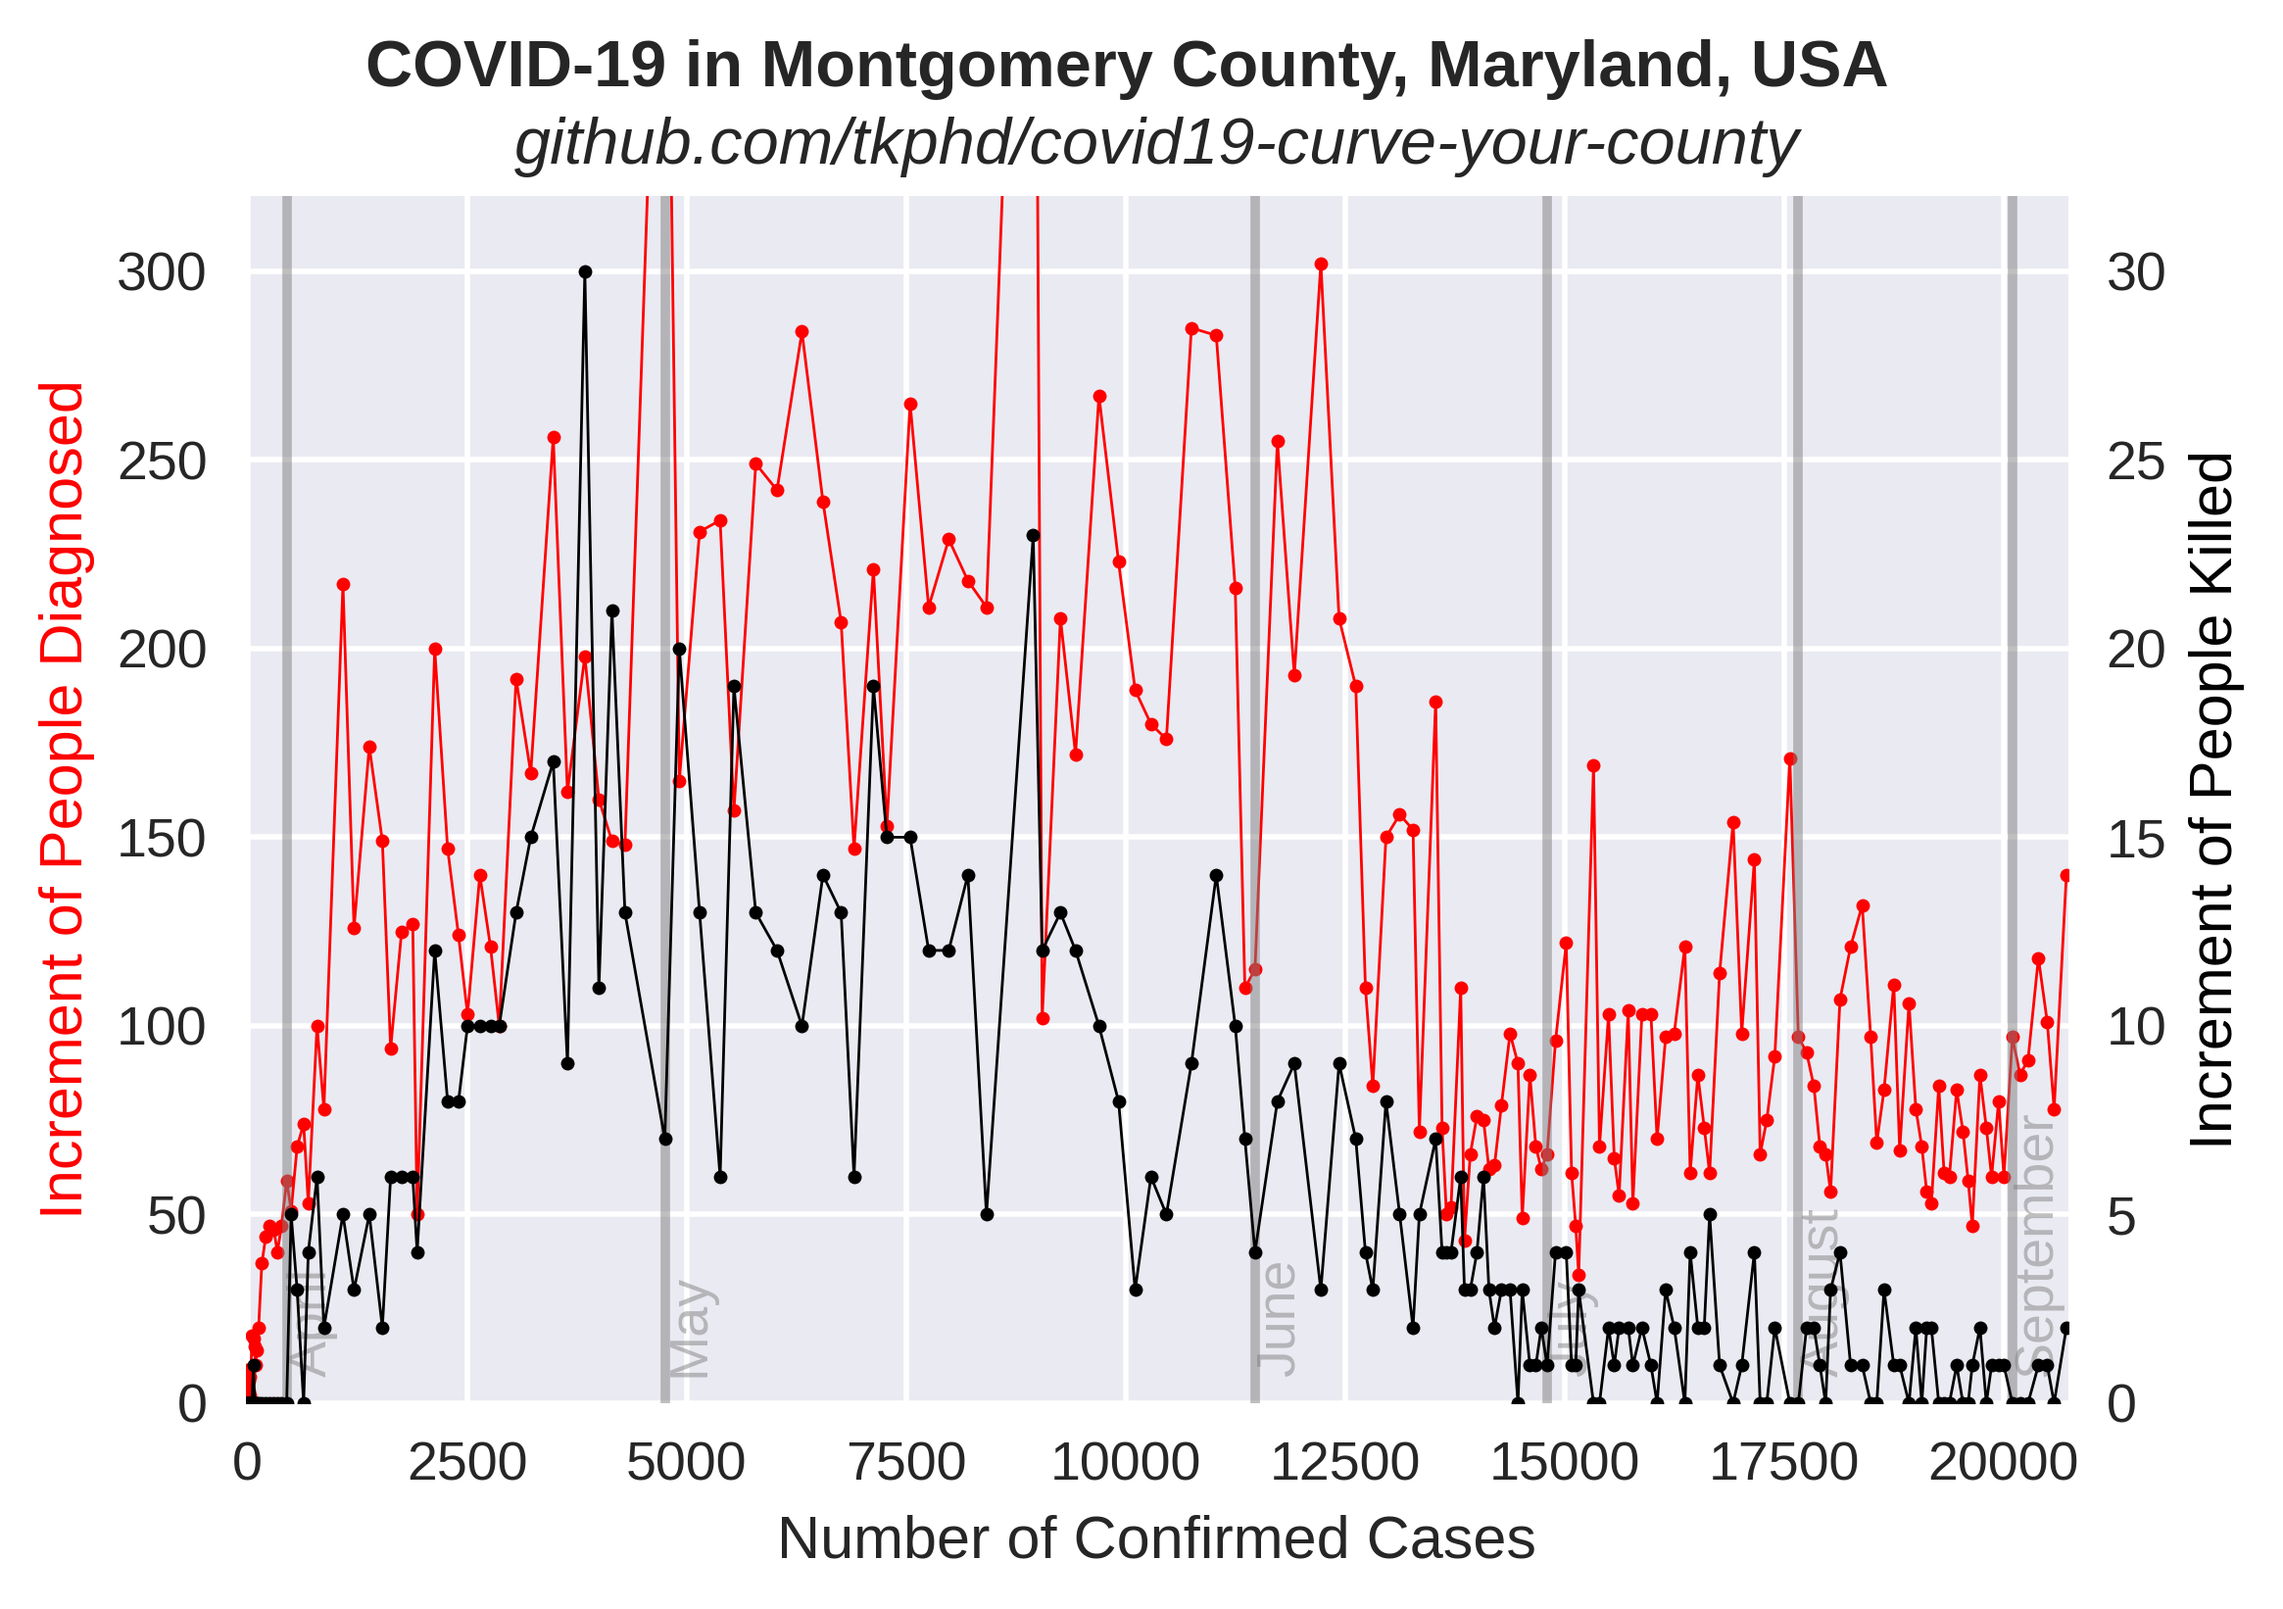
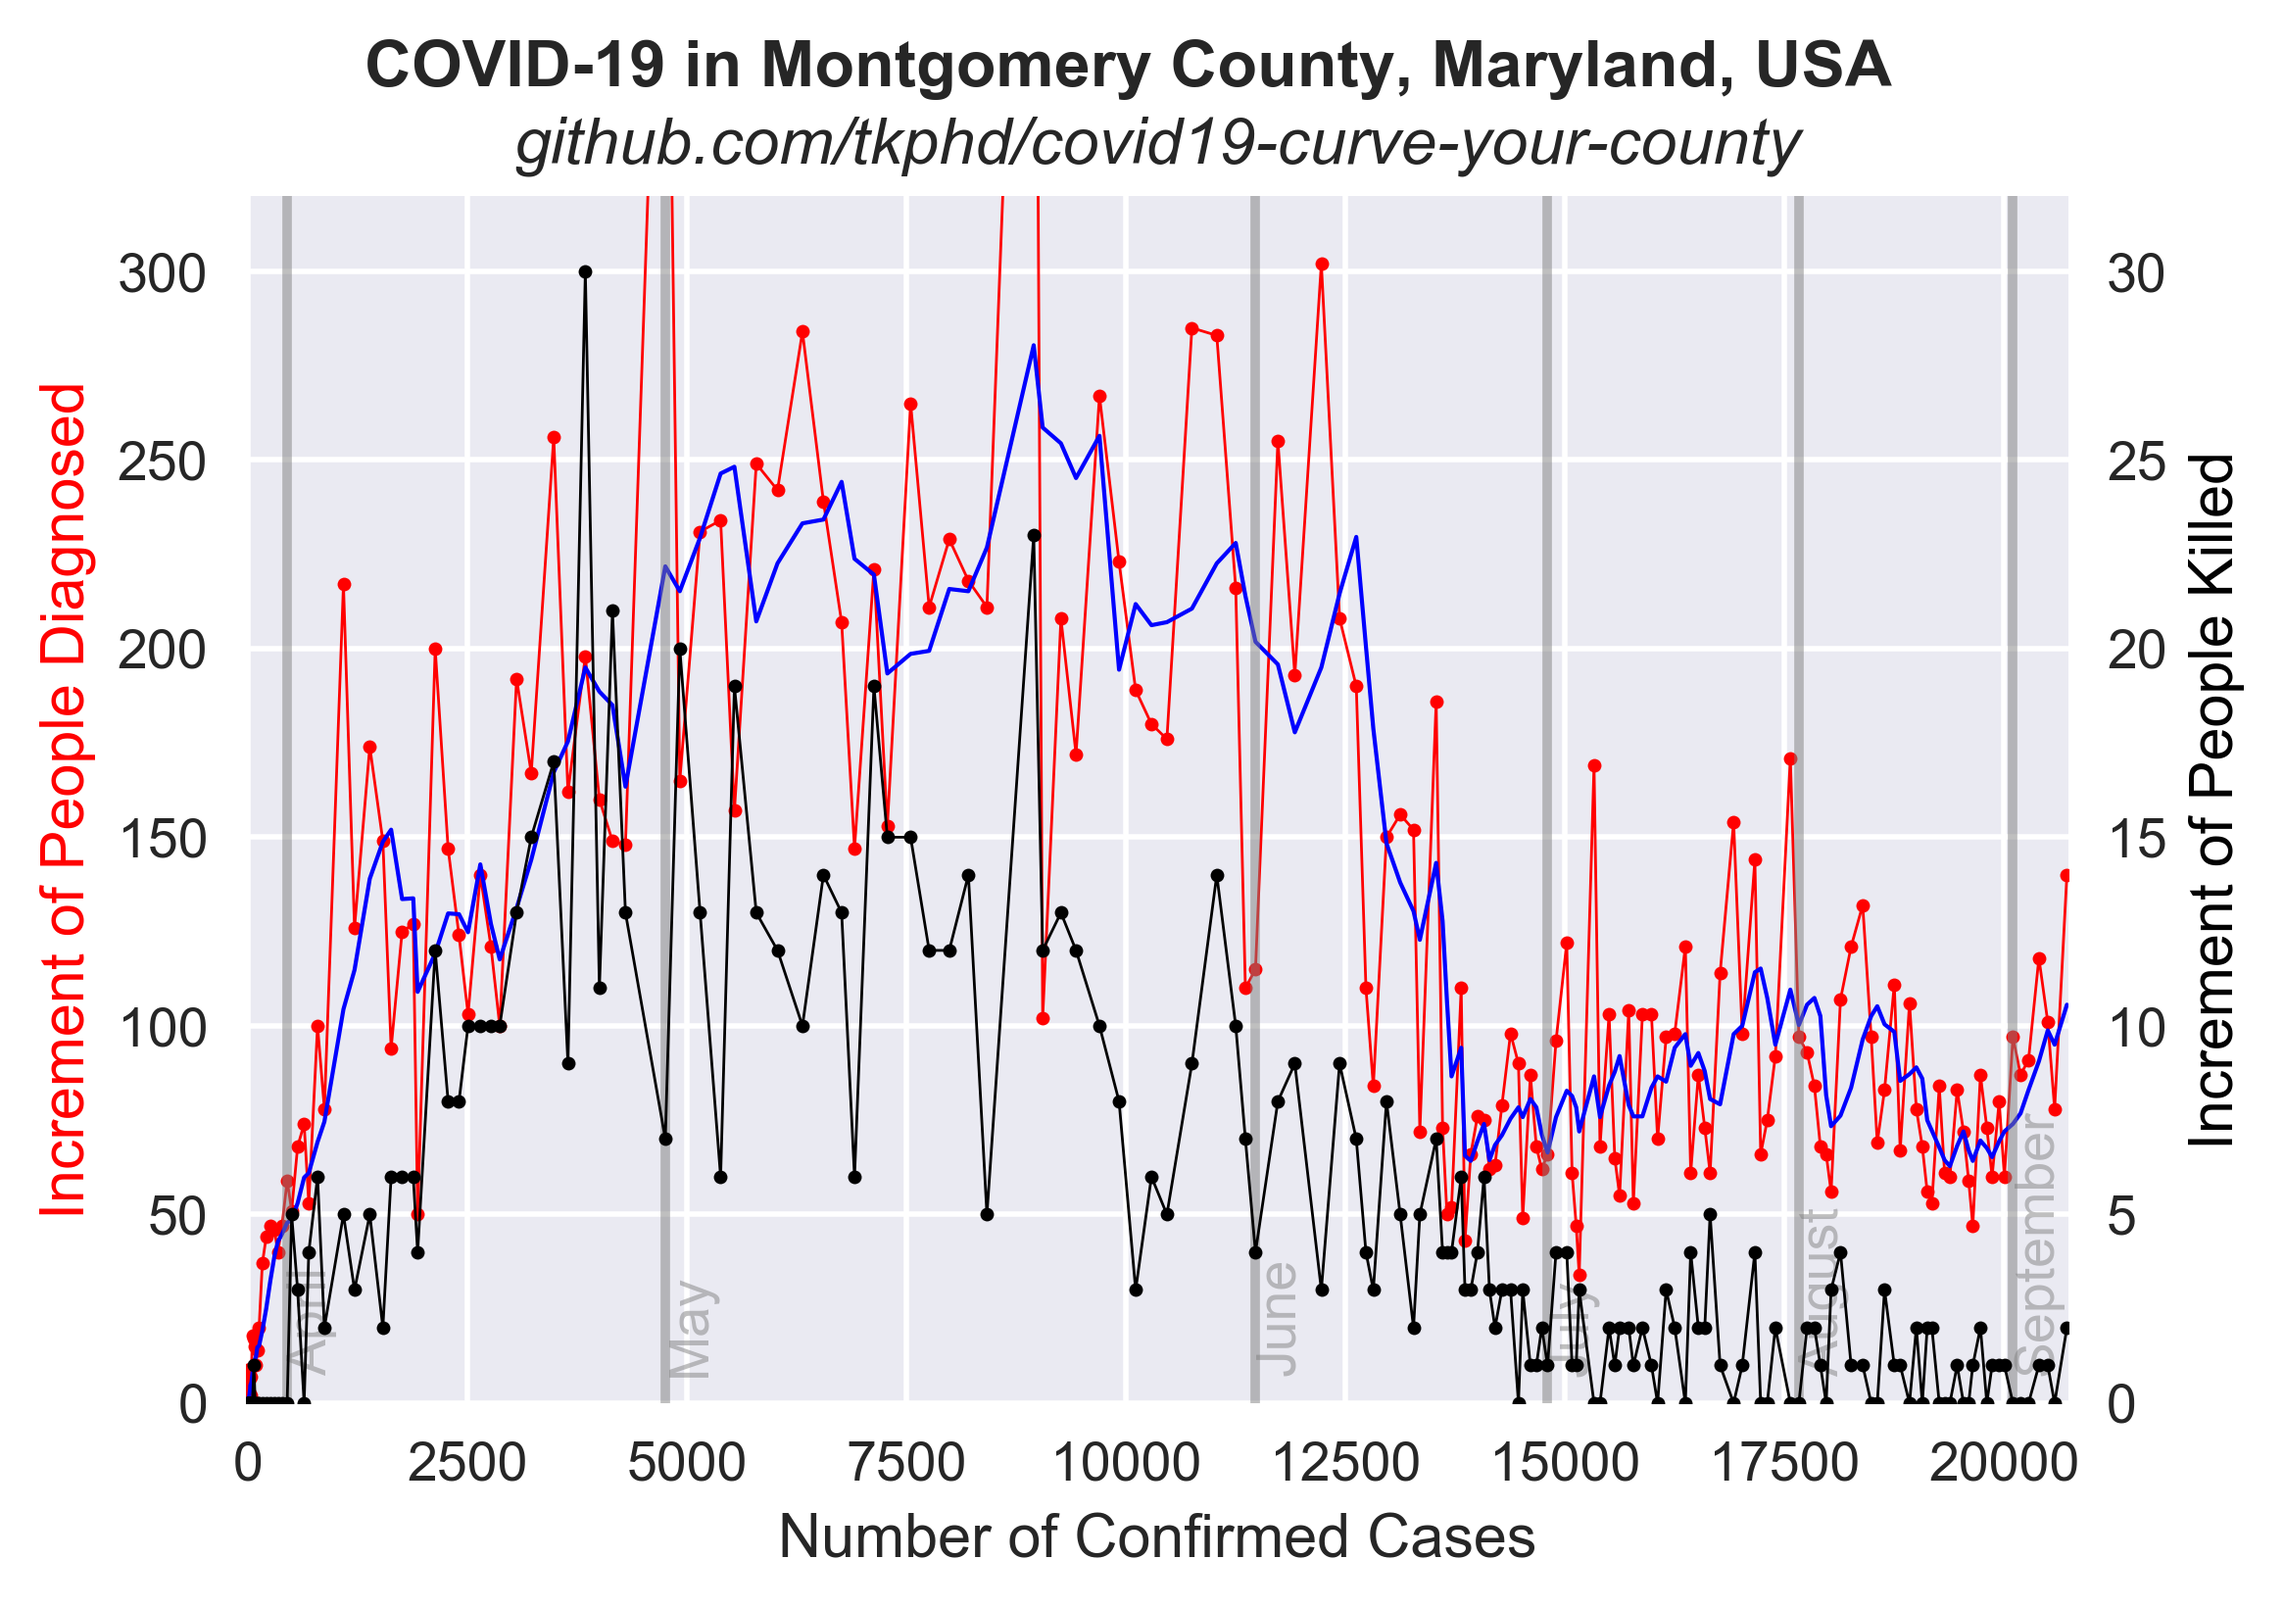
plot 5-day moving average

diff --git a/exponential.py b/exponential.py
@@ -285,6 +285,12 @@ ax1.set_ylim([0,320])
 ax1.set_ylabel("Increment of People {0}".format(key.capitalize()), color=colors[key])
 ax1.plot(x, y, "-o", markersize=2.5, linewidth=0.5, color=colors[key], label=key.capitalize())
 
+# Moving average
+window_width = 5
+cumsum_vec = np.cumsum(np.insert(y, 0, 0))
+mavg = (cumsum_vec[window_width:] - cumsum_vec[:-window_width]) / window_width
+ax1.plot(x[window_width-1:], mavg, color="blue", linewidth=0.75, label="{0}-day avg".format(window_width))
+
 key = "killed"
 ax2 = ax1.twinx()
 ax2.set_ylim([0,32])
